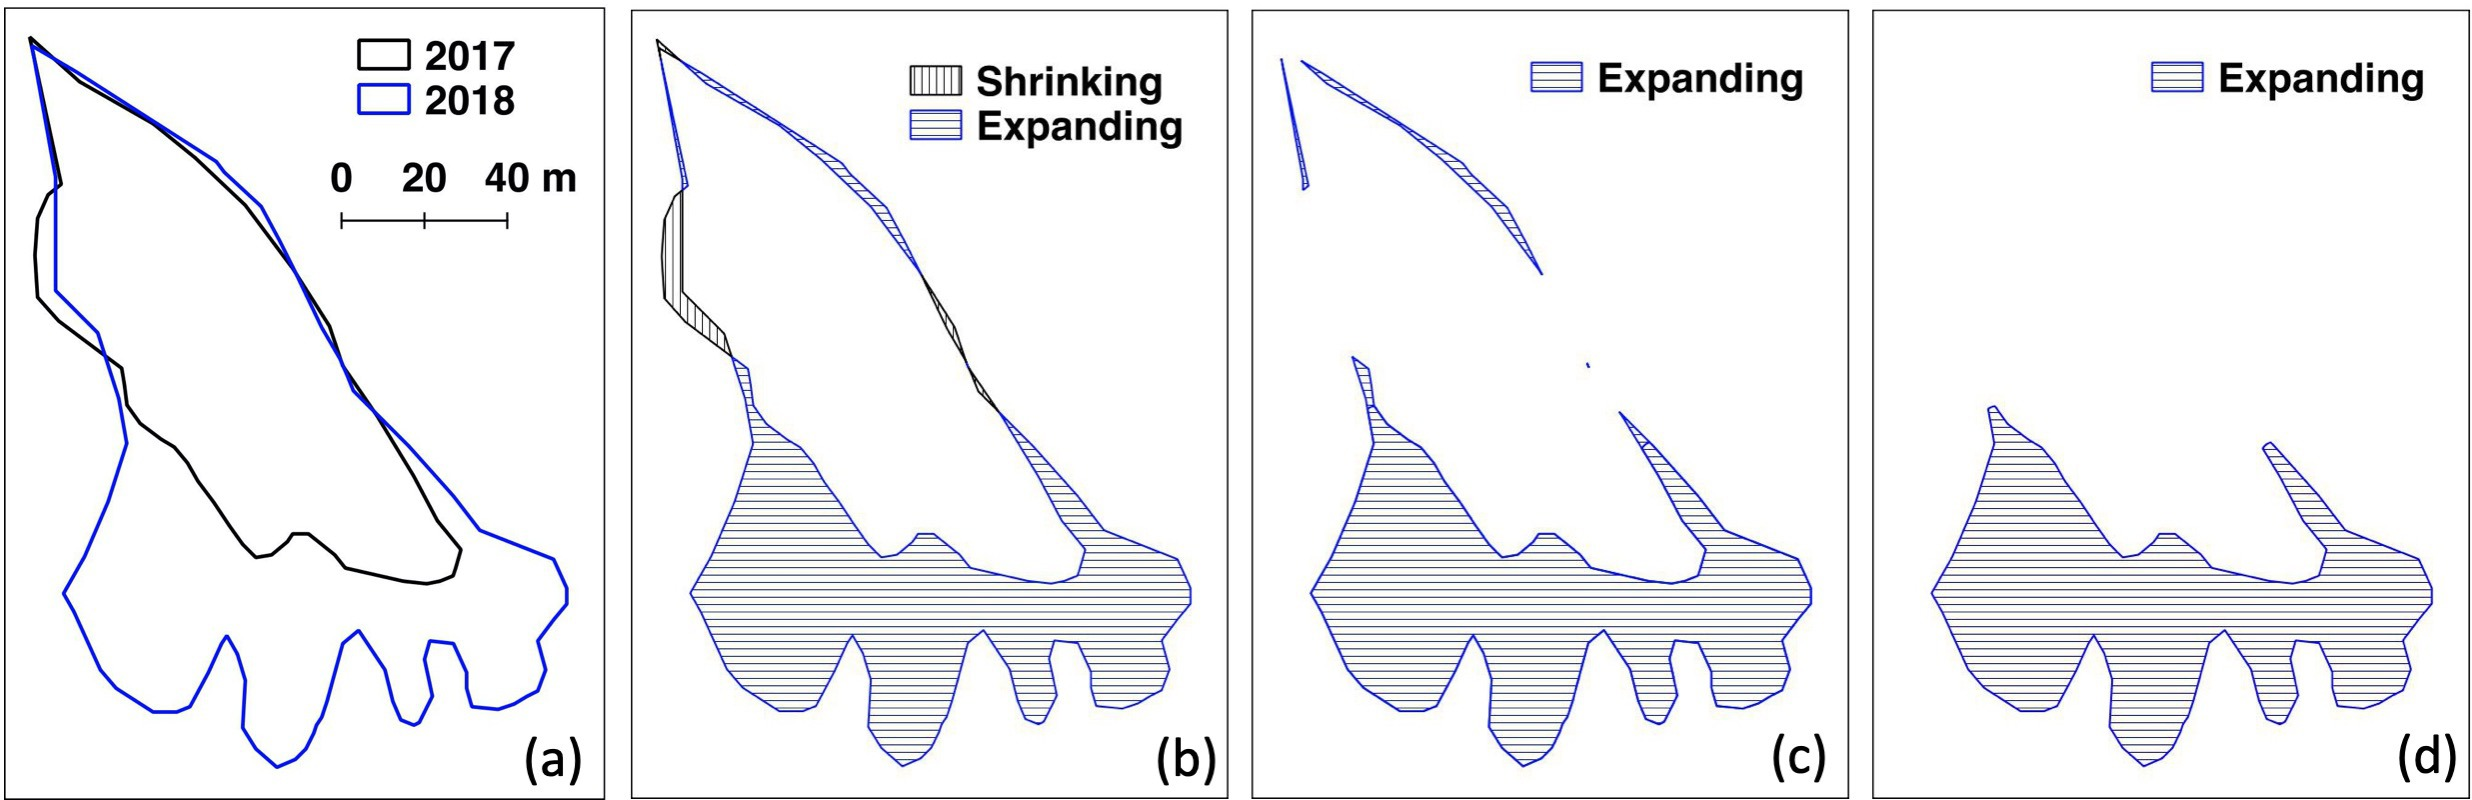
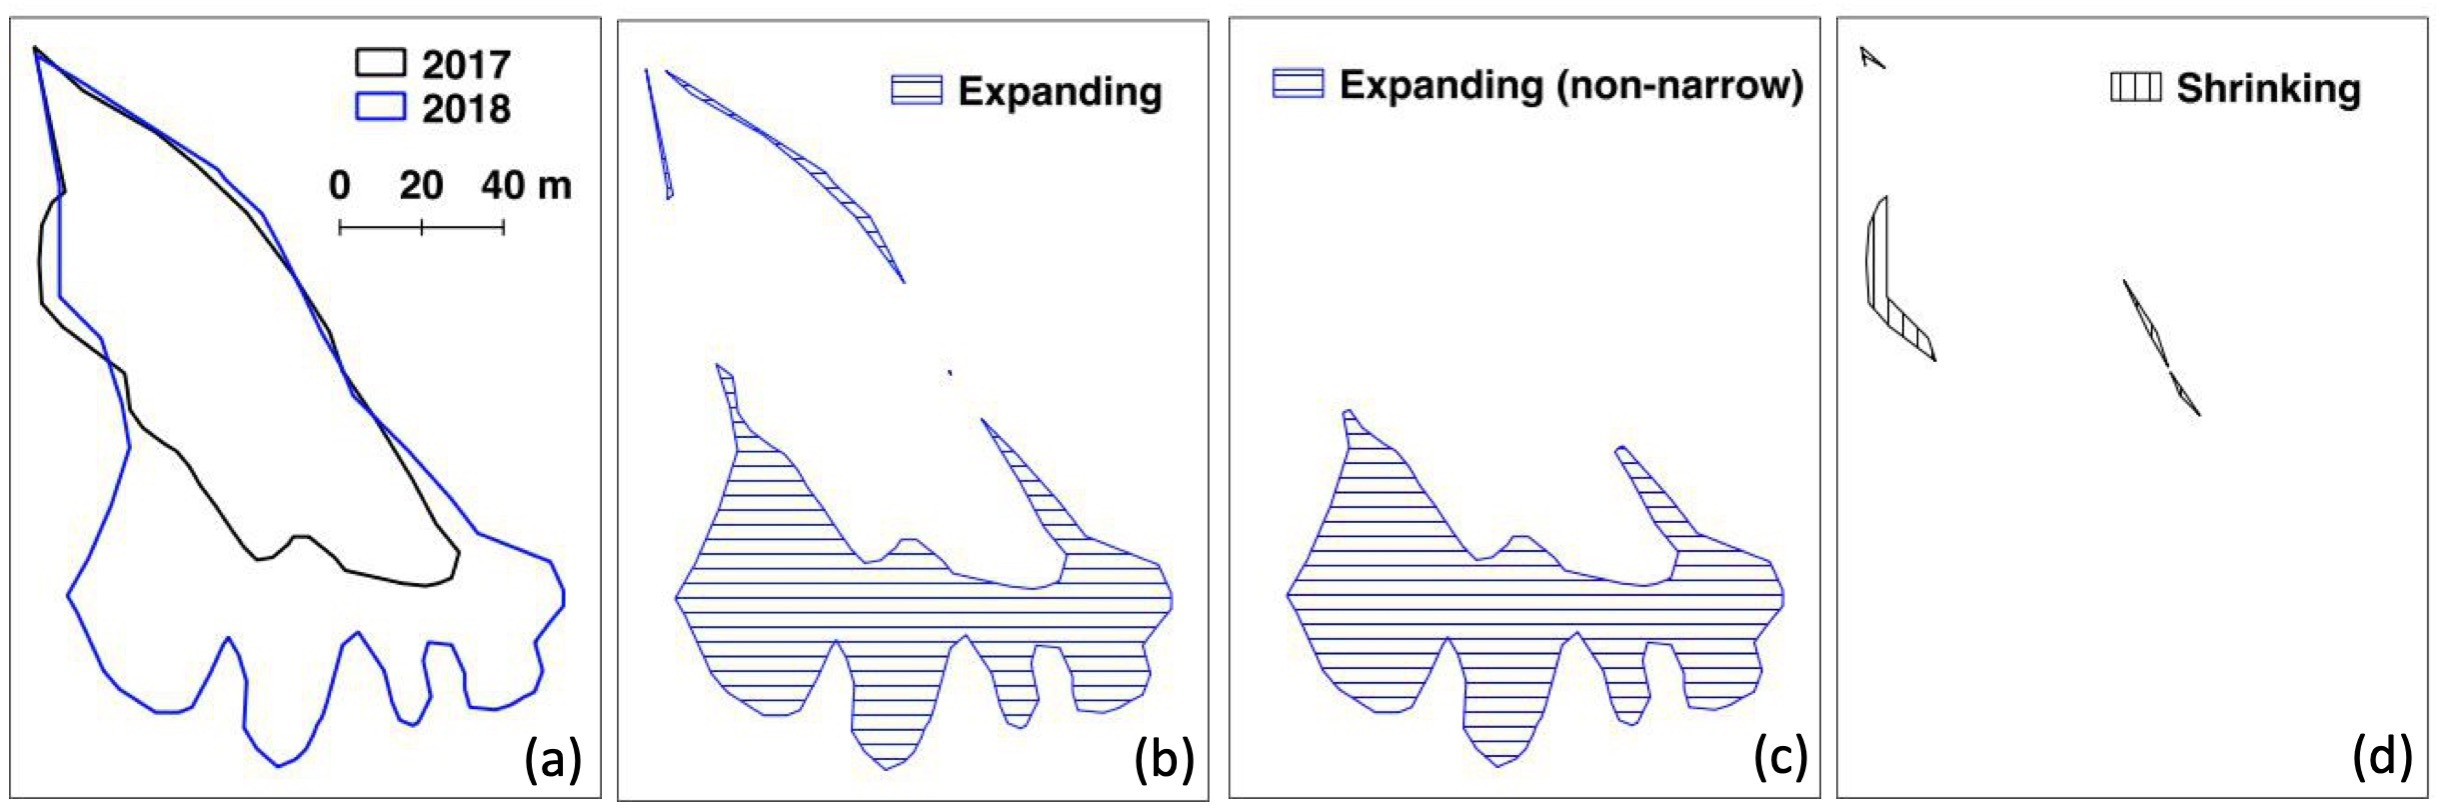
finish polygon-based change detection

diff --git a/poygon_based_rts_changeDet.tex b/poygon_based_rts_changeDet.tex
@@ -355,7 +355,7 @@ IOU(A,B)_{year}=area(A \cap B)/area(A \cup B)
 where \emph{A} is a mapped polygon in the specific year and \emph{B} is the union. 
 Due to the dynamic of RTSs, the time-IOU of an active RTS will monotonically increase over time. 
 If the RTS is already stabilized, its time-IOU will remain the same over time. 
-In consideration of the delineation error (e.g., the RTS boundaries in different years at non-headwall parts are not exactly overlap each other), a threshold of $-0.1$ was set to determine the time-IOU of an RTS is monotonically increasing, that is, if all the differences ($IOU_{next\_year}-IOU_{year}$) are greater than $-0.1$, we consider the time-IOU is monotonically increasing. 
+In consideration of the delineation error (e.g., the RTS boundaries in different years at non-headwall parts are not exactly overlap each other as shown in Figs. \ref{fig_rts_expanding} and \ref{fig_rts_change_det}), a threshold of $-0.1$ was set to determine the time-IOU of an RTS is monotonically increasing, that is, if all the differences ($IOU_{next\_year}-IOU_{year}$) are greater than $-0.1$, we consider the time-IOU is monotonically increasing. 
 Thirdly, in the Beiluhe region, almost all the RTSs were initiated in or before 2016 \citep{luo2019recent}.
 Therefore, we can assume that at a specific location where an RTS emerges, it presents three mapped polygons and each in 2017, 2018, and 2019. 
 Lastly, we removed mapped polygons in a location that do not satisfy the three-polygon assumption or the time-IOU is not monotonically increasing.
@@ -398,34 +398,37 @@ The main steps include polygon-based change detection, removing false changes, a
 \label{sec_polygon_change_det}
 
 To obtain the annual RTS changes, we conducted change detection for RTS boundaries between this year and the previous year, that is, comparing 2017 with 2018 and 2018 with 2019. 
- As shown in equation \ref{equ_polygon_diff}, for a specific location has mapped polygons in different years, a polygon in year \emph{t} minus the one in year \emph{t-1} can result in an expanding polygon (MultiPolygon). 
+ As shown in equation \ref{equ_polygon_diff}, for a specific location has mapped polygons in different years, a polygon in year \emph{t} minus the one in year \emph{t-1} can result in an expanding polygon or multiPolygon. 
 We used the ``difference'' function in Shapely (\url{https://pypi.org/project/Shapely}) to implement the subtraction in equation \ref{equ_polygon_diff}.
 \begin{equation}
 E= P_{t} - P_{t-1}
 \label{equ_polygon_diff}
 \end{equation}
-where \emph{P} is a RTS polygon, \emph{t} is a year, and \emph{E} is the expanding polygon. 
-While $P_{t} - P_{t+1}$ can result in a shirking polygon but it does not correspond to the dynamic feature of an RTS. 
+where \emph{P} is an RTS polygon, \emph{t} represents year, and \emph{E} is the expanding polygon or multiPolygon. 
+While $P_{t} - P_{t+1}$ can result in a shirking polygon, but it does not correspond to the dynamic feature of an RTS; instead, it is a result of delineation errors. 
+Fig. \ref{fig_rts_change_det} shows an example of the subtraction operation between the RTS boundaries in 2017 and 2018. 
+%removing the narrow parts. 
+With the consideration of delineation errors and the resolution (3 m) of Planet images, we removed the narrow parts of expanding multiPolygons using buffer operation as follows, 
+\begin{equation}
+P_{non\text{-}narrow}= P.\text{buffer}(-r).\text{buffer}(r*f) \cap P
+\label{equ_polygon_buffer}
+\end{equation}
+where \emph{P} is a polygon or multiPolygon, \emph{r} is the value of buffer operation,  \emph{f} is a factor between 1 to 2 for avoiding uncertainties of buffer operation. 
+%TODO: check or update the r and f value in the codes
+In this study, we set \emph{r} as 3 and \emph{f} as 1.6 after initial experiments and used ``buffer'' function in Shapely.
+To make it practical for calculating polygon attributes (e.g., area and parameter) and removing false changes (section \ref{sec_removing_false_change}), we converted all the multiPolygons to Polygons.
 
-%TODO: a figure showing a multiPolygon and its narrow parts. 
-
+%a figure showing a multiPolygon and its narrow parts. 
 %[ht]
 \begin{figure} 
 	\centering
 	\includegraphics[width=14cm]{figs/rts_polygon_change_det_trim}
-	\caption{Change detection example}
+	\caption{An example of the polygon-based change detection. (a) shows the boundaries of an RTS (Fig. \ref{fig_rts_expanding}a) in 2017 and 2018. $P_{2018}-P_{2017}$ results in an expanding multiPolygon (b) and the corresponding non-narrow parts (c). $P_{2017}-P_{2018}$ results in a shrinking multiPolygon (d).}
 	\label{fig_rts_change_det}
 \end{figure}
 
-
-
-%removing the narrow parts. 
-
 %a multi-polygon to polygons and calculate the attributes: area, circularity, 
 %zeroIntersection, two or more intersections, holes, relative elevation, retreat distance. 
-
-
-
 
 \subsubsection{Removing false changes}
 \label{sec_removing_false_change}
